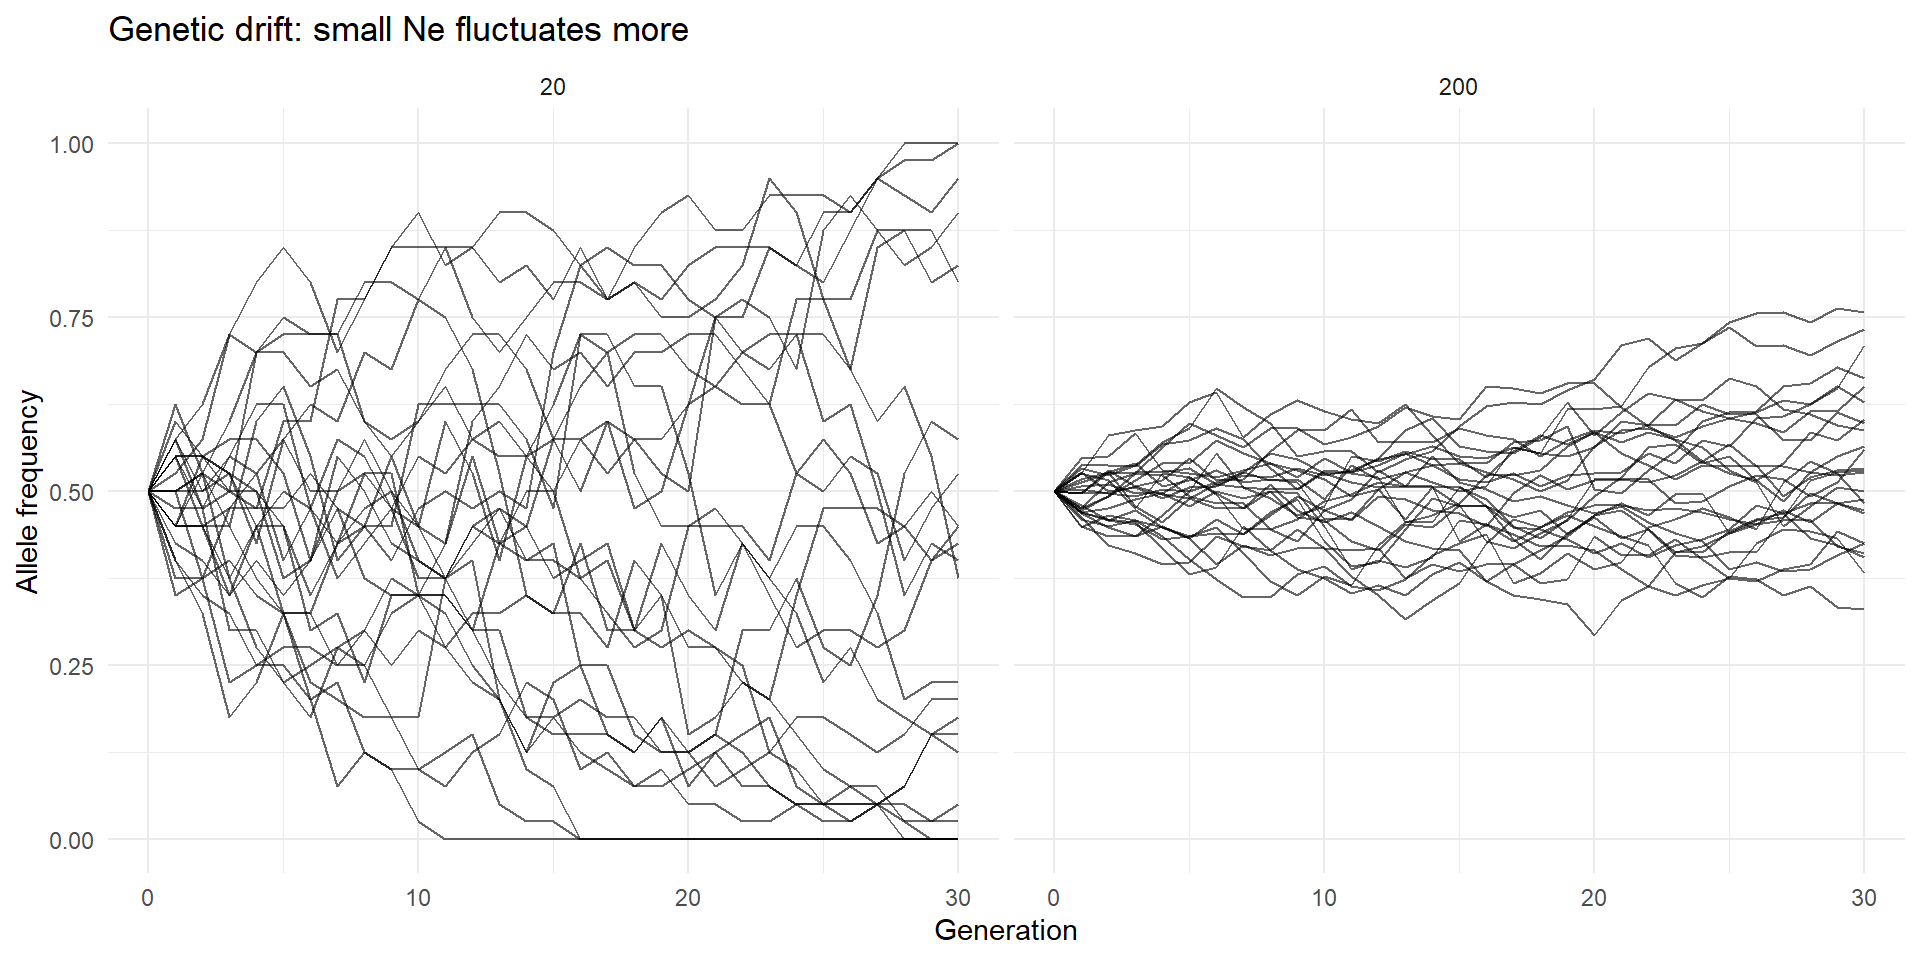
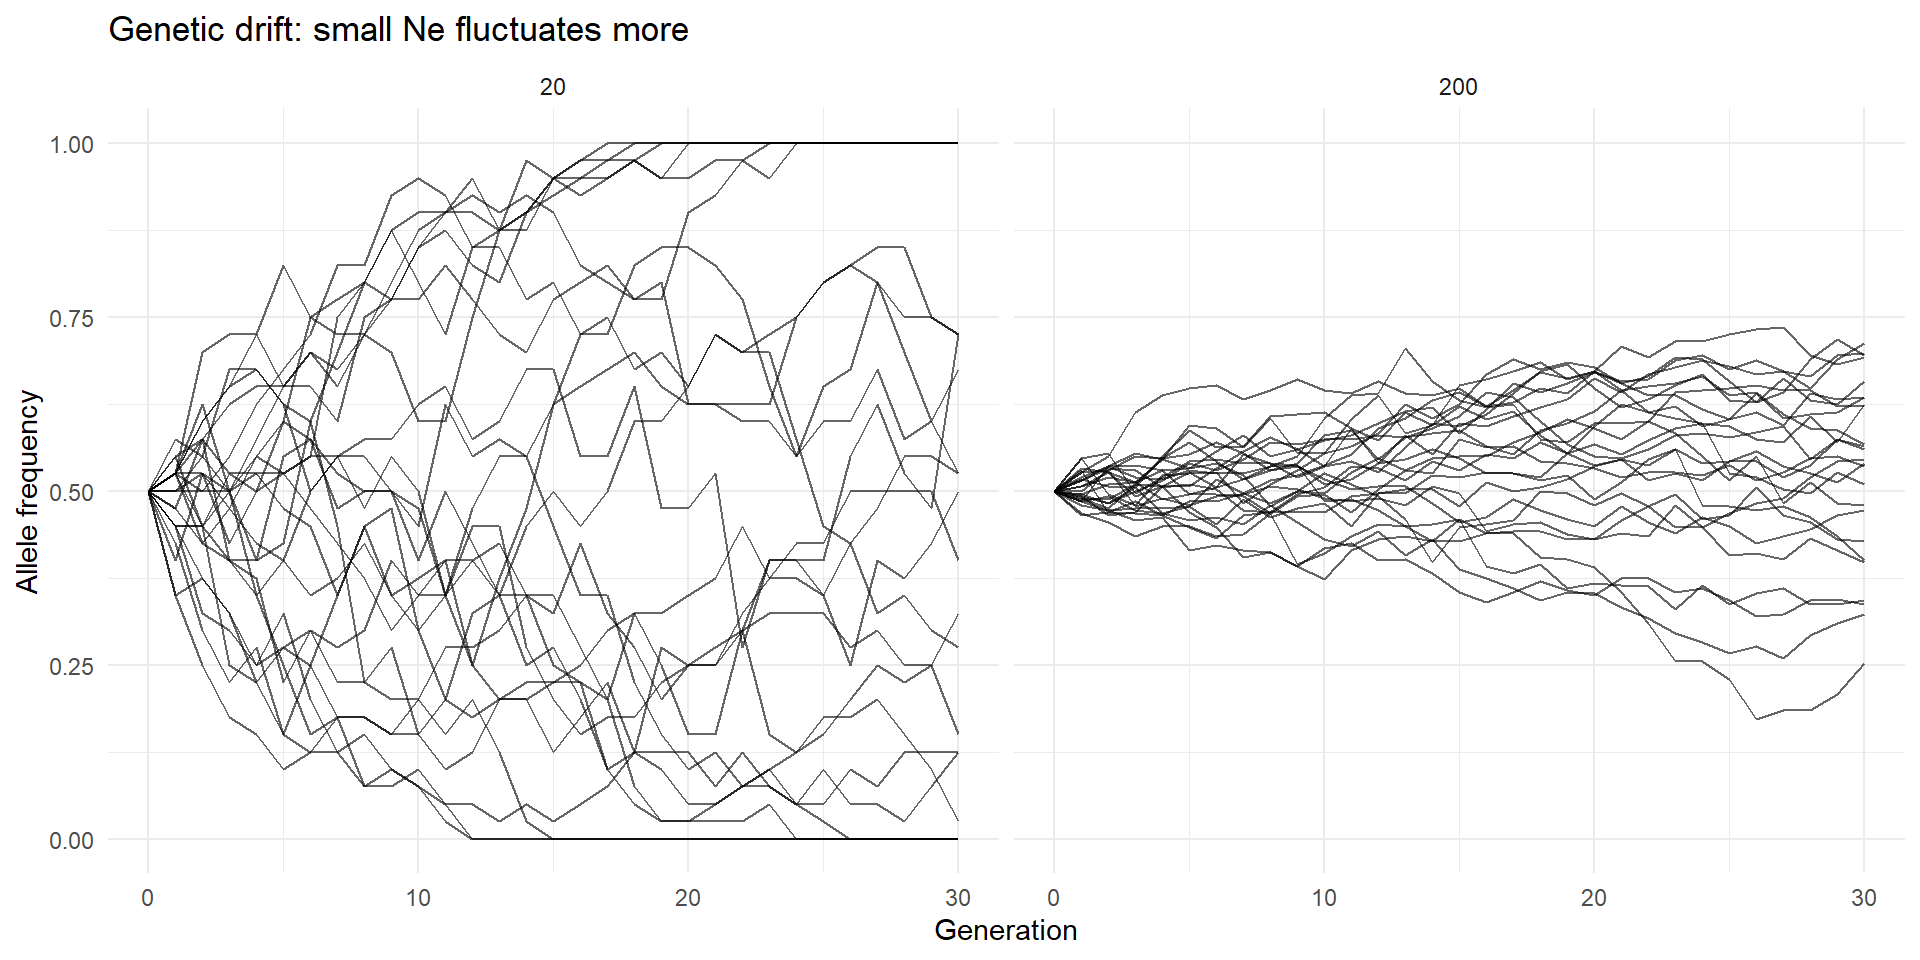
updates

diff --git a/docs/quant-genetics/slides/introduction_quantitative_genetics.html b/docs/quant-genetics/slides/introduction_quantitative_genetics.html
@@ -11,7 +11,7 @@
 
   <meta name="author" content="Peter Sørensen">
   <meta name="dcterms.date" content="2026-03-02">
-  <title>Course Materials – Introduction to Quantiative Genetics</title>
+  <title>Course Materials – Introduction to Quantitative Genetics</title>
   <meta name="apple-mobile-web-app-capable" content="yes">
   <meta name="apple-mobile-web-app-status-bar-style" content="black-translucent">
   <meta name="viewport" content="width=device-width, initial-scale=1.0, maximum-scale=1.0, user-scalable=no, minimal-ui">
@@ -129,7 +129,7 @@
     <div class="slides">
 
 <section id="title-slide" class="quarto-title-block center">
-  <h1 class="title">Introduction to Quantiative Genetics</h1>
+  <h1 class="title">Introduction to Quantitative Genetics</h1>
 
 <div class="quarto-title-authors">
 <div class="quarto-title-author">
@@ -3221,7 +3221,7 @@ document.addEventListener("DOMContentLoaded", function() {
         pause: true,
 
         // Flags if speaker notes should be visible to all viewers
-        showNotes: true,
+        showNotes: false,
 
         // Global override for autoplaying embedded media (null/true/false)
         autoPlayMedia: null,

diff --git a/docs/quant-genetics/slides/introduction_population_genetics_narrated.html b/docs/quant-genetics/slides/introduction_population_genetics_narrated.html
@@ -4440,7 +4440,7 @@ document.addEventListener("DOMContentLoaded", function() {
         pause: true,
 
         // Flags if speaker notes should be visible to all viewers
-        showNotes: true,
+        showNotes: false,
 
         // Global override for autoplaying embedded media (null/true/false)
         autoPlayMedia: null,
